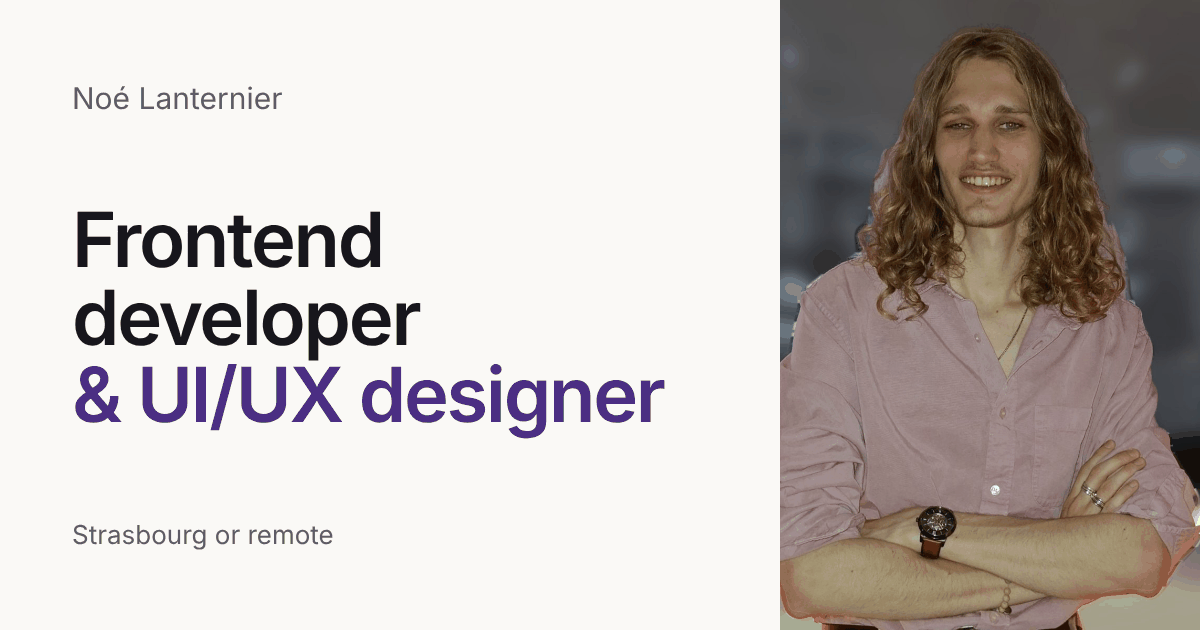
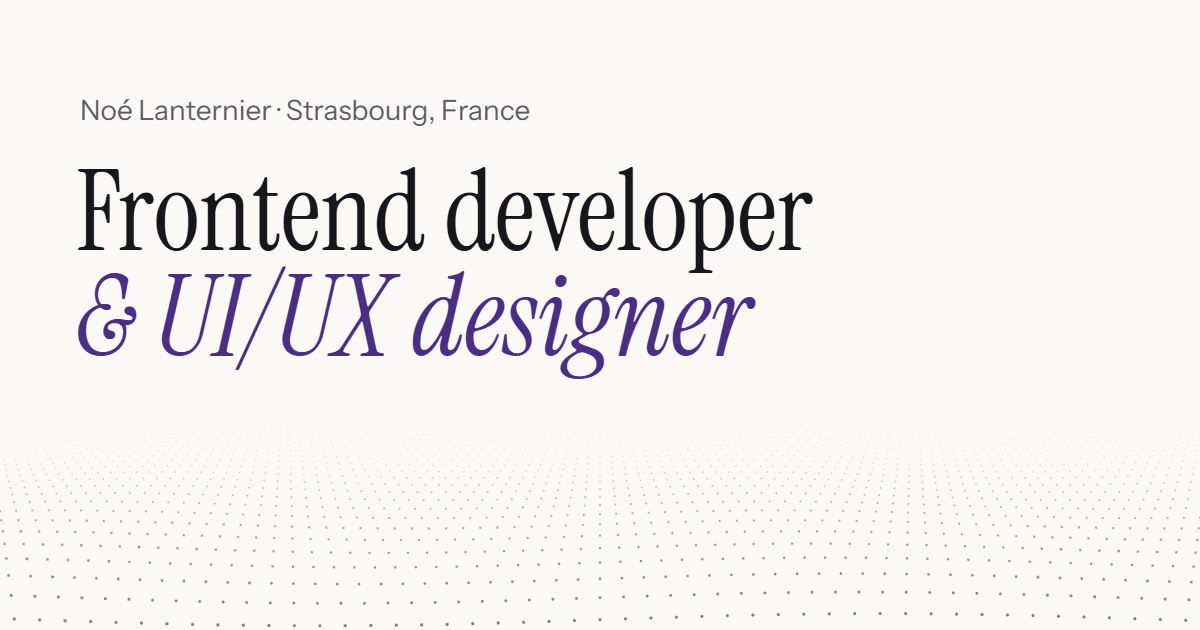
feat: Instrument Sans for text, no photo in the hero
- Body font: Instrument Sans, the companion of the Instrument Serif headings
- Remove the avatar from the hero
- New social preview image with the site's fonts and dot floor

diff --git a/src/sections/Hero.jsx b/src/sections/Hero.jsx
@@ -2,7 +2,6 @@ import { useRef } from 'react'
 import { ArrowDown } from 'lucide-react'
 import DotField from '../components/DotField'
 import { PROFILE } from '../data/profile'
-import avatar from '../assets/avatar.webp'
 import cvFile from '../assets/CV_Noe_LANTERNIER.pdf'
 
 export default function Hero() {
@@ -16,22 +15,11 @@ export default function Hero() {
       </div>
 
       <div className="page relative pb-[clamp(190px,30vh,320px)] pt-28 md:pt-36">
-        <div className="flex items-center gap-4">
-          <img
-            src={avatar}
-            alt="Portrait of Noé Lanternier"
-            width="192"
-            height="192"
-            className="h-14 w-14 rounded-full object-cover md:h-16 md:w-16"
-          />
-          <p className="leading-snug">
-            {PROFILE.name}
-            <br />
-            <span className="text-muted">{PROFILE.location}</span>
-          </p>
-        </div>
+        <p className="text-muted">
+          {PROFILE.name} · {PROFILE.location}
+        </p>
 
-        <h1 className="mt-8 font-serif text-[3.4rem] leading-[0.95] tracking-tight sm:text-7xl lg:text-[6.5rem]">
+        <h1 className="mt-6 font-serif text-[3.4rem] leading-[0.95] tracking-tight sm:text-7xl lg:text-[6.5rem]">
           {PROFILE.title}
           <br />
           <em className="text-accent">{PROFILE.titleSecond}</em>

diff --git a/index.html b/index.html
@@ -28,7 +28,7 @@
 
     <link rel="preconnect" href="https://fonts.googleapis.com" />
     <link rel="preconnect" href="https://fonts.gstatic.com" crossorigin />
-    <link href="https://fonts.googleapis.com/css2?family=Instrument+Serif:ital@0;1&family=Inter:wght@400;500&display=swap" rel="stylesheet" />
+    <link href="https://fonts.googleapis.com/css2?family=Instrument+Sans:wght@400;500&family=Instrument+Serif:ital@0;1&display=swap" rel="stylesheet" />
   </head>
   <body>
     <div id="root"></div>

diff --git a/tailwind.config.js b/tailwind.config.js
@@ -16,7 +16,7 @@ export default {
         },
       },
       fontFamily: {
-        sans: ['Inter', 'system-ui', 'sans-serif'],
+        sans: ['"Instrument Sans"', 'system-ui', 'sans-serif'],
         serif: ['"Instrument Serif"', 'Georgia', 'serif'],
       },
       maxWidth: {

diff --git a/README.md b/README.md
@@ -2,7 +2,7 @@
 
 Personal portfolio: **https://noelanternier.github.io/Portfolio/**
 
-Built with React 19, Vite, Tailwind CSS and lucide icons. Fonts: Instrument Serif and Inter
+Built with React 19, Vite, Tailwind CSS and lucide icons. Fonts: Instrument Serif and Instrument Sans
 (Google Fonts). Deployed to GitHub Pages by
 GitHub Actions on every push to `main` (`.github/workflows/deploy.yml`).
 
@@ -23,7 +23,6 @@ npm run lint
 | Contact form (Formspree ID) | `CONTACT.formspreeId` in `src/data/profile.js` |
 | Projects (texts and images) | `src/components/work/HandVision.jsx`, `src/components/work/TacticalAnalyzer.jsx` |
 | Project images, demo video | `src/assets/projects/handvision/`, `src/assets/projects/tactique/` |
-| Portrait (avatar) | `src/assets/avatar.webp` |
 | Colours and fonts | `tailwind.config.js`, `index.html` |
 | Resume | `src/assets/CV_Noe_LANTERNIER.pdf` |
 | Title, description, social preview | `index.html`, `public/og-image.png` |
